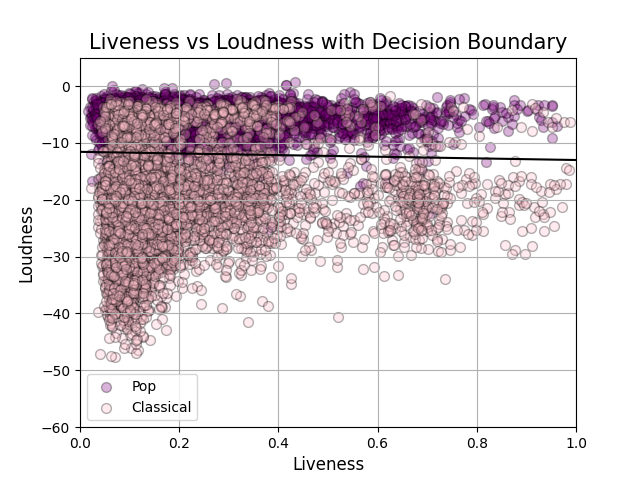
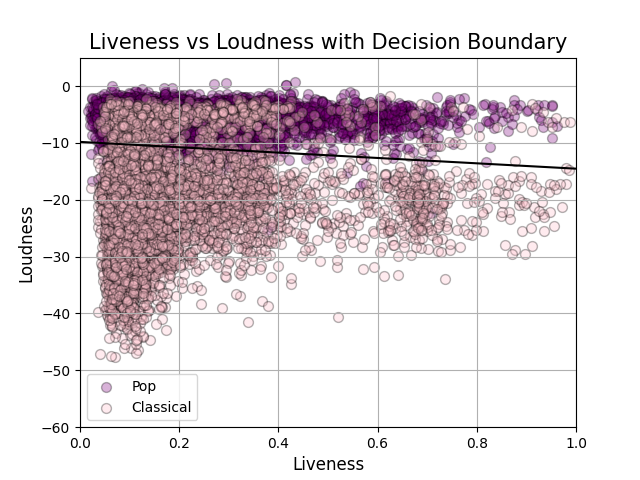
it works !!! juhu

Changed region(s): [[0.125, 0.2812, 0.5312, 0.3438], [0.5625, 0.3125, 0.9062, 0.375]]

diff --git a/A1/src/machineLearning.py b/A1/src/machineLearning.py
@@ -4,18 +4,13 @@ from tqdm import tqdm
 from sklearn.metrics import confusion_matrix
 import seaborn as sns
 
-
-class MachineLearning(): 
-    def __init__(self):
-        pass
-
-
 class Perceptron(): 
     def __init__(self, input_dim=2): 
         self.weight = np.random.rand(input_dim,1)   
         self.bias = np.random.rand(1)
         self.y_hat = None
-        self.learning_rate  = 1e-6                     
+        self.learning_rate  = 5e-5                     
+        
         
     def sigmoid_function(self, x):
         '''
@@ -60,8 +55,14 @@ class Perceptron():
         - x : np.array 
         - y : np.array 
         '''
+
+        y = np.array(y).reshape(1,1)
+        x=x.reshape(2,1)
+
+        self.y_hat = self.y_hat.reshape(1,1)
+        
         # Calculate the derivative of the loss function
-        d_loss = x @ (self.y_hat - y).T 
+        d_loss = x @ (self.y_hat - y)
         
         # Calculate the new weight
         dw = - np.array(self.learning_rate  * d_loss, dtype=float)
@@ -101,15 +102,15 @@ class Perceptron():
 
         for epoch in range(epochs): 
             for i in tqdm(range(len(y))):
+                self.forward_pass(x[:, i])
+                self.backward_pass(x[:, i], y[i])
                 self.forward_pass(x)
-                self.backward_pass(x, y)
                 current_loss = self.loss(y)
                 current_accuracy = self.predict(y)
-                if i % 500 == 0: 
-                    print(f'Epoch {epoch}: Loss {current_loss:.4f}, Accuracy {current_accuracy:.4f}')
 
                 loss_list.append(current_loss)
                 accuracy_list.append(current_accuracy) 
+            print(f'Epoch {epoch}: Loss {current_loss:.4f}, Accuracy {current_accuracy:.4f}')
 
         return loss_list, accuracy_list
 
@@ -147,6 +148,13 @@ class Perceptron():
 
         # Create the confusion matrix
         confusion_matrix = np.array([[TN, FP], [FN, TP]])
+
+        # Calculate precision and recall, and make sure we can not devide by zero
+        precision = TP / (TP + FP) if TP + FP > 0 else 0 
+        recall = TP / (TP + FN) if TP + FN > 0 else 0    
+
+        print(f'Precision: {precision:.4f}, Recall: {recall:.4f}')
+
         
         return confusion_matrix
     

diff --git a/A1/src/main.py b/A1/src/main.py
@@ -4,7 +4,7 @@ import numpy as np
 from plot import Plots
 
 if __name__ == "__main__":
-
+    # ------- Problem 1 -------
     # The filepath to the dataset
     filepath = "../data/SpotifyFeatures.csv"
 
@@ -18,6 +18,9 @@ if __name__ == "__main__":
     # Generate the initial scatter plot
     plot.scatter_plot('Liveness vs Loudness by Genre', preprocessing.data)
         
+    
+    # ------- Problem 2 -------
+    
     # Shuffle the dataset 
     indices = np.arange(X_train.shape[0])
     np.random.shuffle(indices)
@@ -26,10 +29,11 @@ if __name__ == "__main__":
 
     # Train the model on the training data 
     model = Perceptron() 
-    loss_list, accuracy_list = model.train(np.array(X_train).T, np.array(y_train).T, 1)
+    loss_list, accuracy_list = model.train(np.array(X_train).T, np.array(y_train).T, 20)
     plot.plot_loss_vs_accuracy(accuracy_list, loss_list)
     
 
+    # ------- Problem 3 -------
     # Evaluate the model 
     accuracy_train = model.predict(y_train)
     print(f'Train Accuracy: {accuracy_train:.4f}')
@@ -41,8 +45,6 @@ if __name__ == "__main__":
     # Plot decision boundaries for the the complete data set, and the training and test data
     plot.plot_decision_boundary(model, preprocessing)
     plot.subplots(X_train, y_train, X_test, y_test, model)
- 
-
     
 
     # Calculate and plot the confusion matrix

diff --git a/A1/src/plot.py b/A1/src/plot.py
@@ -8,7 +8,6 @@ class Plots():
         self.data = None
         self.plot_directory="../plots"
 
-
         # Define the colors for the plots
         self.color_pop = 'purple'           # Color for Pop data points
         self.color_classical = 'pink'       # Color for Classical data points
@@ -94,7 +93,7 @@ class Plots():
         plt.axline(xy1=[0,-model.bias[0]/model.weight[1,0]], xy2=[-model.bias[0]/model.weight[0,0],0], color='black')
         plt.xlim(0,1)
         plt.ylim(-60,5)
-        
+
         self.save_plot(plot_title)
         plt.show()
 
@@ -104,13 +103,13 @@ class Plots():
         plt.suptitle('Loss vs accuracy')
         plt.subplot(1,2,1)
         plt.plot(accuracy_list, color=self.color_accuracy)
-        plt.xlabel('Epoch')
+        plt.xlabel('optimization steps')
         plt.ylabel('Accuracy')
         plt.title('Accuracy')
 
         plt.subplot(1,2,2) 
         plt.plot(loss_list, color=self.color_loss)
-        plt.xlabel('Epoch')
+        plt.xlabel('optimization steps')
         plt.ylabel('Loss')
         plt.title('Loss')
 
@@ -136,4 +135,5 @@ class Plots():
         plt.xlabel('Predicted')
         plt.ylabel('Actual')
         plt.title('Confusion Matrix')
+        self.save_plot('Confusion Matrix')
         plt.show()

diff --git a/A1/src/preprocessing.py b/A1/src/preprocessing.py
@@ -55,6 +55,14 @@ class DataProcessing():
         self.data.loc[self.data["genre"] == "Classical", "genre"] = 0
         print(f'Pop: {len(self.data[self.data["genre"]==1])}\nClassical: {len(self.data[self.data["genre"]==0])}')
 
+    def filter_features(self):
+        """
+        Filters the dataset to include only the relevant features.
+        """
+        
+        self.data = self.data[['liveness', 'loudness', 'genre']]
+        print("Filtered to necessary features: 'liveness', 'loudness', and 'genre'")
+
 # 1c) 
     def split_data(self, test_size, random_state):
         """
@@ -77,13 +85,6 @@ class DataProcessing():
         print(f"Training set size: {len(X_train)}, Testing set size: {len(X_test)}")
         return X_train, X_test, y_train, y_test
     
-    def filter_features(self):
-        """
-        Filters the dataset to include only the relevant features.
-        """
-        
-        self.data = self.data[['liveness', 'loudness', 'genre']]
-        print("Filtered to necessary features: 'liveness', 'loudness', and 'genre'")
 
 
 
